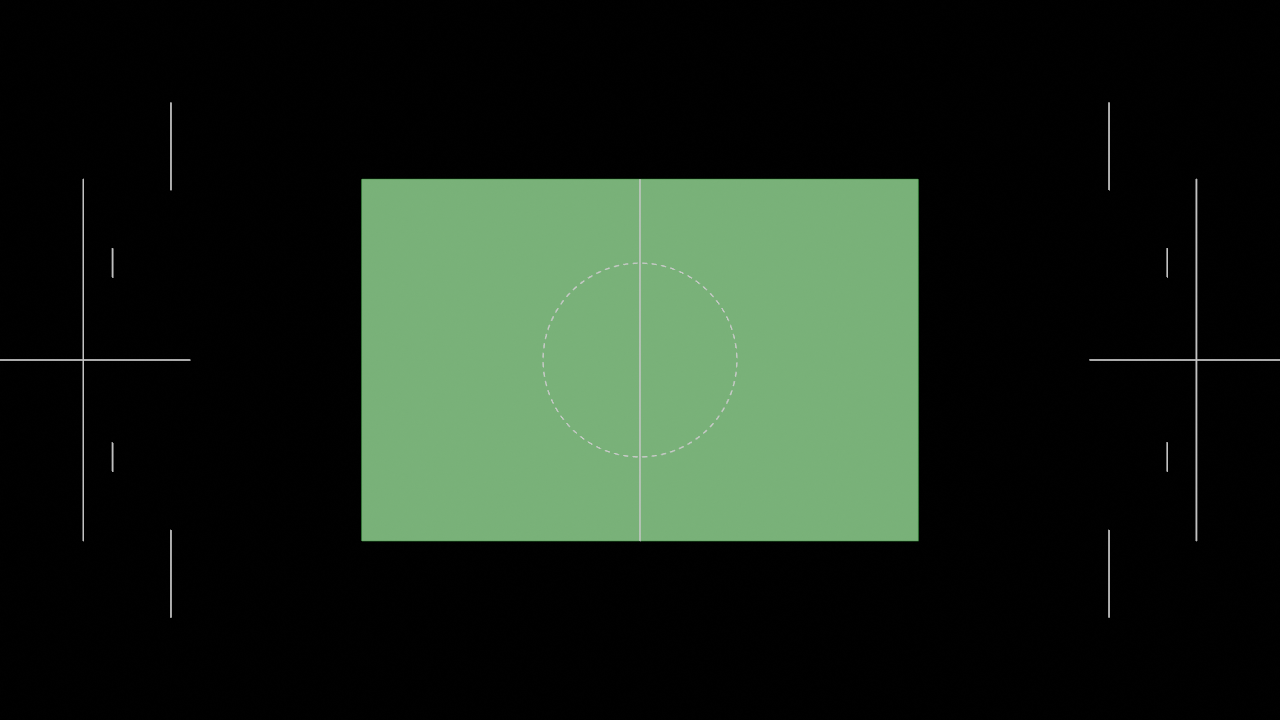
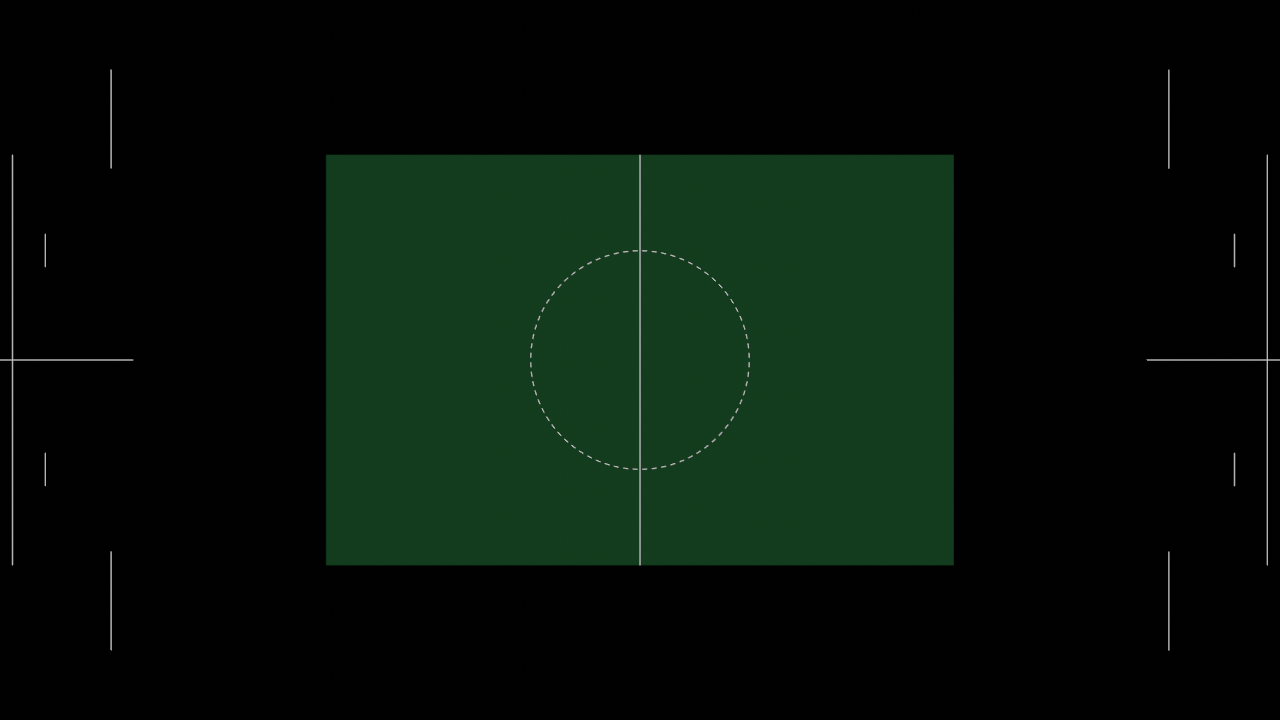
Fix field: emission materials, true black world, darker grass, full frame
Previous render looked unchanged because Principled BSDF was washed out by
sun lighting. Switch to emission shaders for flat news-CG colors.

diff --git a/blender/scenes/build_part_field.py b/blender/scenes/build_part_field.py
@@ -3,9 +3,11 @@
 パーツ01: サッカーフィールドのみ（緑芝 + 白線）
 
   blender -b ~/Desktop/sho-lin-soccer.blend -P build_part_field.py
+  blender -b ~/Desktop/sho-lin-soccer.blend -P build_part_field.py -- --render
 """
 from __future__ import annotations
 
+import math
 import sys
 from pathlib import Path
 
@@ -16,26 +18,51 @@ _SCRIPT_DIR = Path(__file__).resolve().parent
 if str(_SCRIPT_DIR) not in sys.path:
     sys.path.insert(0, str(_SCRIPT_DIR))
 
-from news_cg_common import (  # noqa: E402
-    LINE_WHITE,
-    make_flat_material,
-    open_blend,
-    resolve_blend_path,
-)
+from news_cg_common import open_blend, resolve_blend_path  # noqa: E402
 
-# フィールド寸法（メートル相当）— ニュースCG用に大きめ
-PITCH_LENGTH = 200.0
-PITCH_WIDTH = 130.0
-LINE_W = 0.18
-GRASS_DARK = (0.05, 0.28, 0.07, 1.0)  # 濃い緑
-
-# 標準ピッチ(105x68)からのスケール
+# フィールド寸法 — 画面いっぱいに見えるよう大きめ
+PITCH_LENGTH = 260.0
+PITCH_WIDTH = 170.0
+LINE_W = 0.22
+GRASS_DARK = (0.006, 0.045, 0.012, 1.0)  # かなり濃い緑
+LINE_COLOR = (0.95, 0.95, 0.95, 1.0)
 _SCALE = PITCH_LENGTH / 105.0
+
+
+def make_emission_material(name: str, rgba: tuple) -> bpy.types.Material:
+    """ニュースCG風フラット色 — ライトに左右されない"""
+    mat = bpy.data.materials.new(name=name)
+    mat.use_nodes = True
+    nodes = mat.node_tree.nodes
+    links = mat.node_tree.links
+    nodes.clear()
+    out = nodes.new("ShaderNodeOutputMaterial")
+    emit = nodes.new("ShaderNodeEmission")
+    emit.inputs["Color"].default_value = rgba
+    emit.inputs["Strength"].default_value = 1.0
+    links.new(emit.outputs["Emission"], out.inputs["Surface"])
+    return mat
 
 
 def clear_all() -> None:
     bpy.ops.object.select_all(action="SELECT")
     bpy.ops.object.delete(use_global=False)
+
+
+def setup_black_world() -> None:
+    scene = bpy.context.scene
+    for w in bpy.data.worlds:
+        bpy.data.worlds.remove(w)
+    world = bpy.data.worlds.new("World_Black")
+    scene.world = world
+    world.use_nodes = True
+    bg = world.node_tree.nodes["Background"]
+    bg.inputs[0].default_value = (0.0, 0.0, 0.0, 1.0)
+    bg.inputs[1].default_value = 1.0
+    scene.render.film_transparent = False
+    scene.view_settings.view_transform = "Standard"
+    scene.view_settings.exposure = 0.0
+    scene.view_settings.gamma = 1.0
 
 
 def add_plane(name: str, size_x: float, size_y: float, loc: Vector, mat) -> bpy.types.Object:
@@ -47,19 +74,7 @@ def add_plane(name: str, size_x: float, size_y: float, loc: Vector, mat) -> bpy.
     return obj
 
 
-def setup_black_world() -> None:
-    scene = bpy.context.scene
-    world = bpy.data.worlds.get("World") or bpy.data.worlds.new("World")
-    scene.world = world
-    world.use_nodes = True
-    bg = world.node_tree.nodes["Background"]
-    bg.inputs[0].default_value = (0.0, 0.0, 0.0, 1.0)
-    bg.inputs[1].default_value = 1.0
-    scene.render.film_transparent = False
-
-
 def build_field_only() -> None:
-    """緑の芝＋白線だけ。キャラ・ゴール・カメラ等は置かない。"""
     clear_all()
     setup_black_world()
 
@@ -67,39 +82,29 @@ def build_field_only() -> None:
     scene.frame_start = 1
     scene.frame_end = 1
 
-    grass = make_flat_material("Grass", GRASS_DARK)
-    white = make_flat_material("LineWhite", LINE_WHITE)
+    grass = make_emission_material("Grass", GRASS_DARK)
+    white = make_emission_material("LineWhite", LINE_COLOR)
 
     half_l = PITCH_LENGTH / 2
     half_w = PITCH_WIDTH / 2
-    z = 0.0
-    lz = 0.01  # 白線を芝より少し上に
+    lz = 0.02
 
-    # 芝生
-    add_plane("Field_Grass", PITCH_LENGTH, PITCH_WIDTH, Vector((0, 0, z)), grass)
+    add_plane("Field_Grass", PITCH_LENGTH, PITCH_WIDTH, Vector((0, 0, 0)), grass)
 
-    # 外枠
     add_plane("Line_Touchline_Top", PITCH_LENGTH, LINE_W, Vector((0, half_w, lz)), white)
     add_plane("Line_Touchline_Bottom", PITCH_LENGTH, LINE_W, Vector((0, -half_w, lz)), white)
     add_plane("Line_Goalline_Left", LINE_W, PITCH_WIDTH, Vector((-half_l, 0, lz)), white)
     add_plane("Line_Goalline_Right", LINE_W, PITCH_WIDTH, Vector((half_l, 0, lz)), white)
-
-    # センターライン
     add_plane("Line_Halfway", LINE_W, PITCH_WIDTH, Vector((0, 0, lz)), white)
 
-    # センターサークル（64点の短い線分で近似）
     circle_r = 9.15 * _SCALE
-    segments = 64
-    import math
-
+    segments = 72
     for i in range(segments):
         a0 = 2 * math.pi * i / segments
         a1 = 2 * math.pi * (i + 1) / segments
         mx = (math.cos(a0) + math.cos(a1)) / 2 * circle_r
         my = (math.sin(a0) + math.sin(a1)) / 2 * circle_r
-        seg_len = math.sqrt(
-            (math.cos(a1) - math.cos(a0)) ** 2 + (math.sin(a1) - math.sin(a0)) ** 2
-        ) * circle_r
+        seg_len = math.hypot(math.cos(a1) - math.cos(a0), math.sin(a1) - math.sin(a0)) * circle_r
         angle = math.atan2(math.sin(a1) - math.sin(a0), math.cos(a1) - math.cos(a0))
         bpy.ops.mesh.primitive_plane_add(size=1, location=(mx, my, lz))
         seg = bpy.context.active_object
@@ -108,60 +113,56 @@ def build_field_only() -> None:
         seg.rotation_euler = (0, 0, angle)
         seg.data.materials.append(white)
 
-    # センタースポット
-    bpy.ops.mesh.primitive_circle_add(radius=0.2 * _SCALE, location=(0, 0, lz))
-    spot = bpy.context.active_object
-    spot.name = "Line_CenterSpot"
-    spot.data.materials.append(white)
+    bpy.ops.mesh.primitive_circle_add(radius=0.25 * _SCALE, location=(0, 0, lz))
+    bpy.context.active_object.name = "Line_CenterSpot"
+    bpy.context.active_object.data.materials.append(white)
 
-    # ペナルティエリア（両ゴール側）— シンプルな矩形
     box_depth = 16.5 * _SCALE
     box_width = 40.32 * _SCALE
-    goal_x = half_l
-
-    for side, gx in (("Left", -goal_x), ("Right", goal_x)):
-        sign = 1 if gx < 0 else -1
-        inner_x = gx + sign * box_depth / 2
-        add_plane(f"Line_PenaltyFront_{side}", box_width, LINE_W, Vector((gx, 0, lz)), white)
-        add_plane(
-            f"Line_PenaltySideTop_{side}",
-            LINE_W,
-            box_depth,
-            Vector((inner_x, box_width / 2, lz)),
-            white,
-        )
-        add_plane(
-            f"Line_PenaltySideBottom_{side}",
-            LINE_W,
-            box_depth,
-            Vector((inner_x, -box_width / 2, lz)),
-            white,
-        )
-
-    # ゴールエリア（小さい箱）
     goal_box_depth = 5.5 * _SCALE
     goal_box_width = 18.32 * _SCALE
-    for side, gx in (("Left", -goal_x), ("Right", goal_x)):
-        sign = 1 if gx < 0 else -1
-        inner_x = gx + sign * goal_box_depth / 2
-        add_plane(f"Line_GoalBoxFront_{side}", goal_box_width, LINE_W, Vector((gx, 0, lz)), white)
-        add_plane(
-            f"Line_GoalBoxSideTop_{side}",
-            LINE_W,
-            goal_box_depth,
-            Vector((inner_x, goal_box_width / 2, lz)),
-            white,
-        )
-        add_plane(
-            f"Line_GoalBoxSideBottom_{side}",
-            LINE_W,
-            goal_box_depth,
-            Vector((inner_x, -goal_box_width / 2, lz)),
-            white,
-        )
 
-    bpy.context.scene.frame_set(1)
-    print("Field only: grass + white lines")
+    for side, gx in (("Left", -half_l), ("Right", half_l)):
+        sign = 1 if gx < 0 else -1
+        add_plane(f"Line_PenaltyFront_{side}", box_width, LINE_W, Vector((gx, 0, lz)), white)
+        ix = gx + sign * box_depth / 2
+        add_plane(f"Line_PenaltySideTop_{side}", LINE_W, box_depth, Vector((ix, box_width / 2, lz)), white)
+        add_plane(f"Line_PenaltySideBottom_{side}", LINE_W, box_depth, Vector((ix, -box_width / 2, lz)), white)
+        ix2 = gx + sign * goal_box_depth / 2
+        add_plane(f"Line_GoalBoxFront_{side}", goal_box_width, LINE_W, Vector((gx, 0, lz)), white)
+        add_plane(f"Line_GoalBoxSideTop_{side}", LINE_W, goal_box_depth, Vector((ix2, goal_box_width / 2, lz)), white)
+        add_plane(f"Line_GoalBoxSideBottom_{side}", LINE_W, goal_box_depth, Vector((ix2, -goal_box_width / 2, lz)), white)
+
+    print(f"Field built: {PITCH_LENGTH}x{PITCH_WIDTH}m, dark green emission, black world")
+
+
+def render_preview() -> Path:
+    scene = bpy.context.scene
+    scene.render.engine = "BLENDER_EEVEE"
+    scene.render.resolution_x = 1280
+    scene.render.resolution_y = 720
+    setup_black_world()
+
+    for obj in list(bpy.data.objects):
+        if obj.type == "CAMERA":
+            bpy.data.objects.remove(obj, do_unlink=True)
+
+    cam_data = bpy.data.cameras.new("FieldCam")
+    cam = bpy.data.objects.new("FieldCam", cam_data)
+    bpy.context.collection.objects.link(cam)
+    cam.location = (0, 0, 200)
+    cam.rotation_euler = (0, 0, 0)
+    scene.camera = cam
+    cam.data.type = "ORTHO"
+    cam.data.ortho_scale = max(PITCH_LENGTH, PITCH_WIDTH) * 1.02  # 画面いっぱい
+
+    out = Path("/workspace/blender/renders/parts/field_only.png")
+    out.parent.mkdir(parents=True, exist_ok=True)
+    scene.render.image_settings.file_format = "PNG"
+    scene.render.filepath = str(out)
+    bpy.ops.render.render(write_still=True)
+    print(f"Rendered: {out}")
+    return out
 
 
 def save_blend(path: Path) -> None:
@@ -174,6 +175,8 @@ def main() -> None:
     open_blend(blend)
     build_field_only()
     save_blend(blend)
+    if "--render" in sys.argv:
+        render_preview()
 
 
 if __name__ == "__main__":
